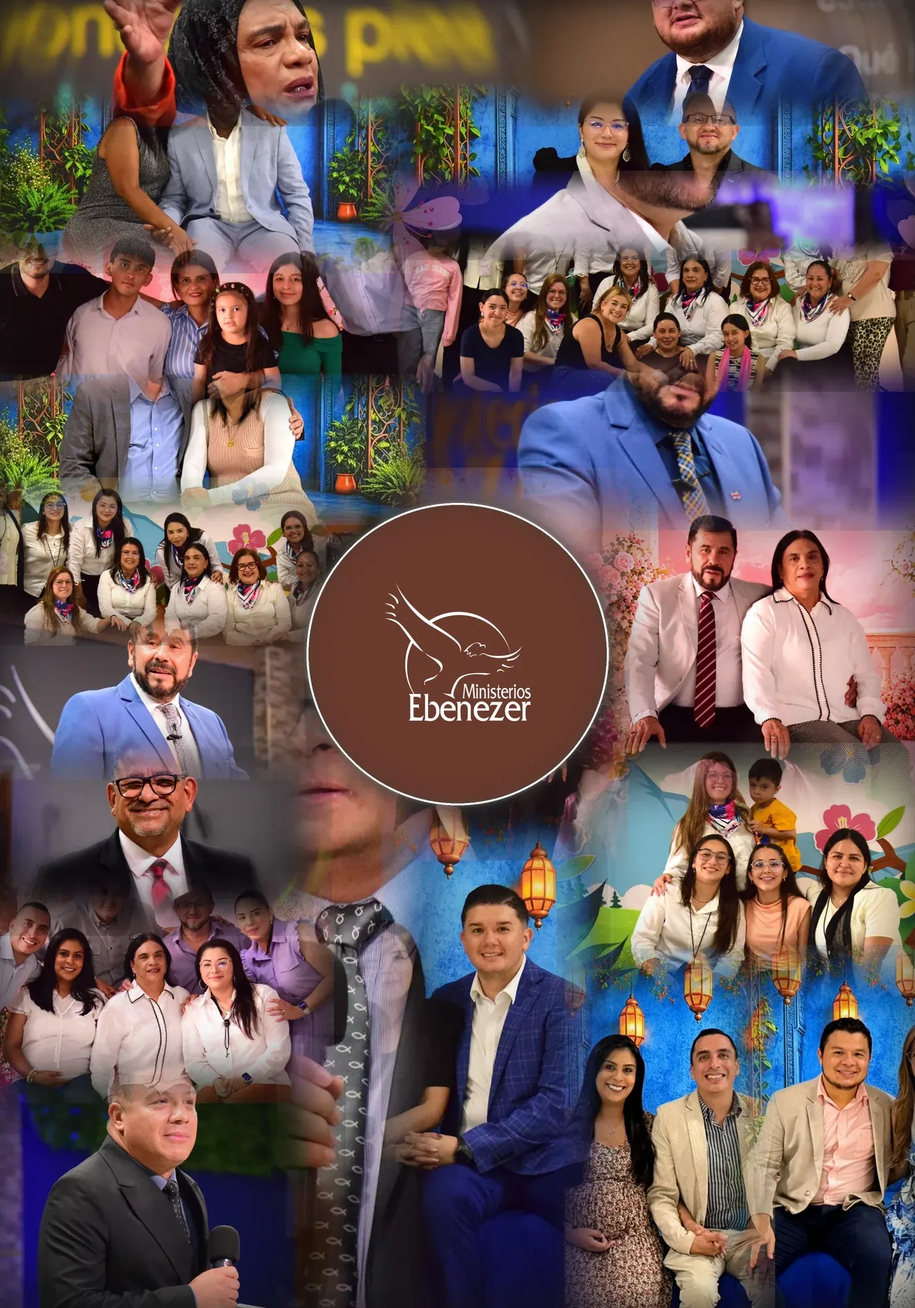
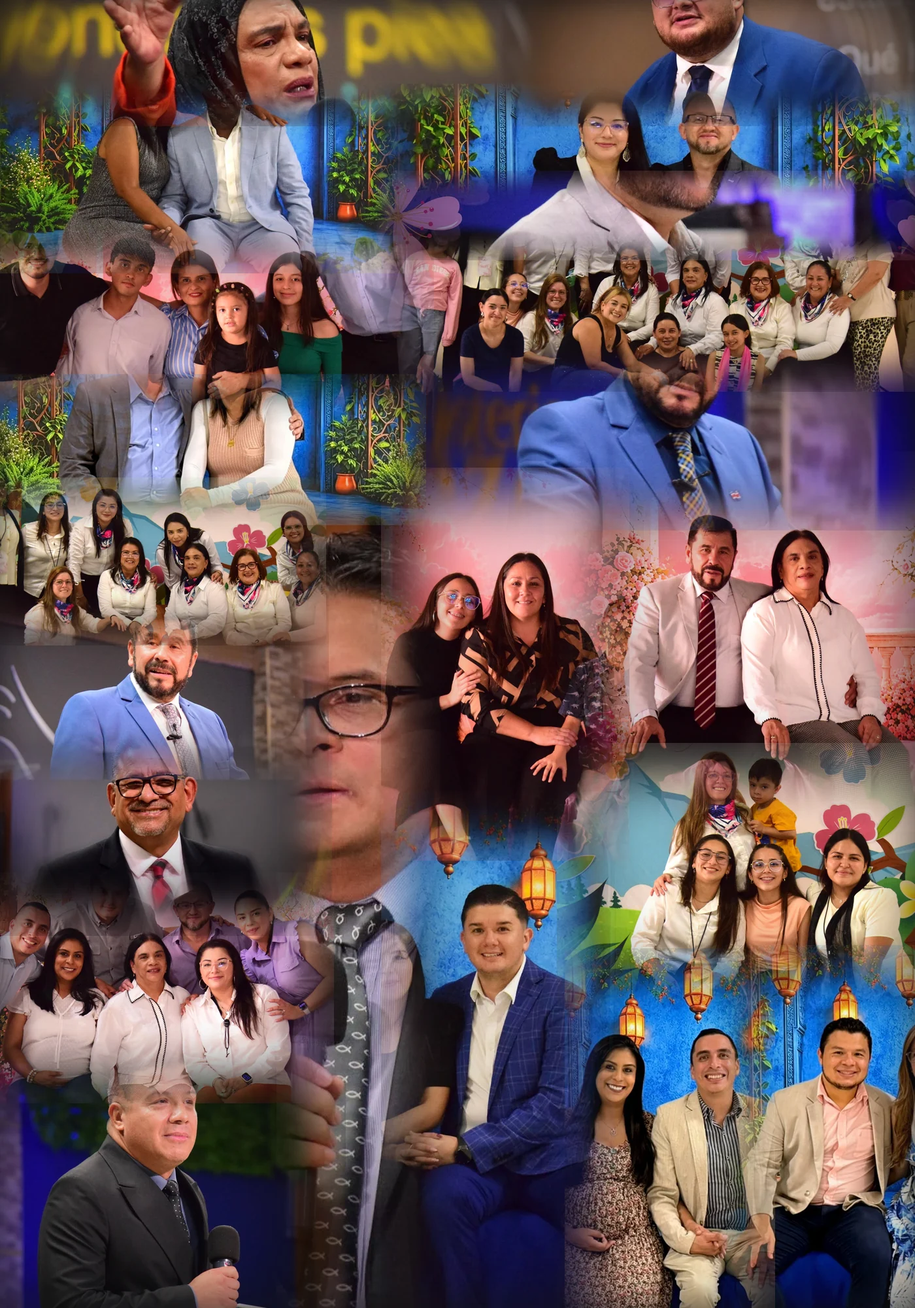
Tarjetas sin disco central y onda del tema arreglada en movil
Las portadas pierden el circulo del logo: quedan solo las fotos
fundidas entre si. Con eso la cabecera de cada panel ya no tiene nada
que esquivar y vuelve al encuadre centrado.

La onda del cambio de tema nacia descolocada en movil. Iba por View
Transitions, recortando el render nuevo con un clip-path circular, pero
los pseudo-elementos de la transicion se anclan al bloque contenedor de
la instantanea, que no coincide con el viewport visual cuando la barra
del navegador esta a la vista: el circulo aparecia en otro sitio.

Se retira esa ruta y queda una sola: un disco propio, position fixed,
con las mismas coordenadas que devuelve getBoundingClientRect() sobre
el boton. Comprobado en 412x915: el centro del disco cae en (311,31),
el mismo punto que el centro del boton.

Changed region(s): [[0.3071, 0.372, 0.7064, 0.651]]

diff --git a/tibas/public/index.html b/tibas/public/index.html
@@ -94,16 +94,20 @@ body.open .aurora{opacity:.42}
 .aurora i:nth-child(3){width:44vw;height:44vw;left:26vw;bottom:-18vw}
 [data-theme="light"] .aurora i{mix-blend-mode:multiply}
 /* ── Onda del cambio de tema ────────────────────────────────────────
-   Donde el navegador soporta View Transitions, el círculo recorta el
-   render nuevo: se ve la web entera del otro tema apareciendo, no un
-   color plano. Donde no, cae al círculo de color de abajo.          */
-::view-transition-old(root),::view-transition-new(root){
-  animation:none;mix-blend-mode:normal}
-::view-transition-old(root){z-index:1}
-::view-transition-new(root){z-index:2}
+   Un disco del color de destino que nace en el botón y se expande hasta
+   cubrir la pantalla; debajo se cambia el tema y luego el disco se va.
+
+   Antes esto iba por View Transitions recortando el render nuevo, pero
+   en móvil el círculo salía descolocado: los pseudo-elementos de la
+   transición se anclan al bloque contenedor de la instantánea, que no
+   coincide con el viewport visual cuando la barra del navegador está a
+   la vista. Con un elemento fijo propio las coordenadas son las mismas
+   que devuelve getBoundingClientRect(), y la onda nace exactamente en
+   el botón en cualquier navegador.                                   */
 .onda{position:fixed;width:24px;height:24px;border-radius:50%;z-index:9995;
   pointer-events:none;transform:translate(-50%,-50%) scale(0);
-  transition:transform .8s cubic-bezier(.16,1,.3,1),opacity .4s ease-out}
+  will-change:transform,opacity;
+  transition:transform .82s cubic-bezier(.16,1,.3,1),opacity .38s ease-out}
 
 /* ══════════════════════════════ INTRO ══════════════════════════════
    Nace SIEMPRE en gris perla, sea cual sea el tema guardado. Si el tema
@@ -301,10 +305,6 @@ body.open .vscrim{pointer-events:auto;cursor:pointer}
 }
 .view-hero{position:relative;flex:none;height:min(38vh,360px);overflow:hidden}
 .view-hero img{position:absolute;inset:0;width:100%;height:100%;object-fit:cover;
-  /* El collage lleva el logo en el centro; la cabecera es una franja
-     horizontal que lo partiria por la mitad. Se encuadra arriba, sobre
-     la zona de fotos, y el disco no llega a asomar. */
-  object-position:50% 18%;
   filter:grayscale(.55) brightness(.5);transform:scale(1.06);will-change:transform}
 .view-hero::after{content:"";position:absolute;inset:0;
   background:linear-gradient(180deg,color-mix(in oklab,var(--bg) 55%,transparent) 0%,transparent 30%,var(--bg) 97%)}
@@ -978,32 +978,26 @@ $('#theme').addEventListener('click',e=>{
 
   if(reduce){ aplicar(); return; }
 
-  // origen de la onda: el propio botón
+  // La onda nace en el centro del propio botón.
   const b=$('#theme').getBoundingClientRect();
   const x=b.left+b.width/2, y=b.top+b.height/2;
-  // radio que alcanza la esquina más lejana
+  // radio necesario para alcanzar la esquina más lejana de la pantalla
   const R=Math.hypot(Math.max(x,innerWidth-x), Math.max(y,innerHeight-y));
 
-  if(document.startViewTransition){
-    const vt=document.startViewTransition(aplicar);
-    vt.ready.then(()=>{
-      root.animate(
-        {clipPath:[`circle(0px at ${x}px ${y}px)`, `circle(${R}px at ${x}px ${y}px)`]},
-        {duration:760, easing:'cubic-bezier(.16,1,.3,1)',
-         pseudoElement:'::view-transition-new(root)'});
-    }).catch(()=>{});
-  }else{
-    // sin View Transitions: un disco del color de destino que se expande
-    const o=document.createElement('div');
-    o.className='onda';
-    o.style.background=FONDO[n];
-    o.style.left=x+'px'; o.style.top=y+'px';
-    document.body.appendChild(o);
-    requestAnimationFrame(()=>{o.style.transform=`translate(-50%,-50%) scale(${R/12})`});
-    setTimeout(aplicar, 430);                 // el tema cambia bajo el disco
-    setTimeout(()=>{o.style.opacity='0'}, 780);
-    setTimeout(()=>o.remove(), 1250);
-  }
+  const o=document.createElement('div');
+  o.className='onda';
+  o.style.background=FONDO[n];
+  o.style.left=x+'px';
+  o.style.top=y+'px';
+  document.body.appendChild(o);
+
+  // un reflow antes de animar, para que la transición arranque de escala 0
+  void o.offsetWidth;
+  o.style.transform=`translate(-50%,-50%) scale(${(R+30)/12})`;
+
+  setTimeout(aplicar, 440);                  // el tema cambia bajo el disco
+  setTimeout(()=>{ o.style.opacity='0' }, 800);
+  setTimeout(()=>o.remove(), 1260);
 });
 
 document.addEventListener('click',e=>{

diff --git a/tibas/arte/collage.py b/tibas/arte/collage.py
@@ -181,9 +181,7 @@ def collage(carpeta, color, salida, semilla=7):
     lienzo = Image.composite(base, Image.blend(base, Image.new('RGB', (W, H)), 0.42),
                              vin).convert('RGBA')
 
-    logo = logo_alfa(logo_ruta) if logo_ruta else None
-    if logo:
-        lienzo = centro_logo(lienzo, logo, color, rnd)
+    # sin disco central: la tarjeta queda sólo con las fotos fundidas
 
     im = lienzo.convert('RGB')
     im.save(salida, 'WEBP', quality=86, method=6)
